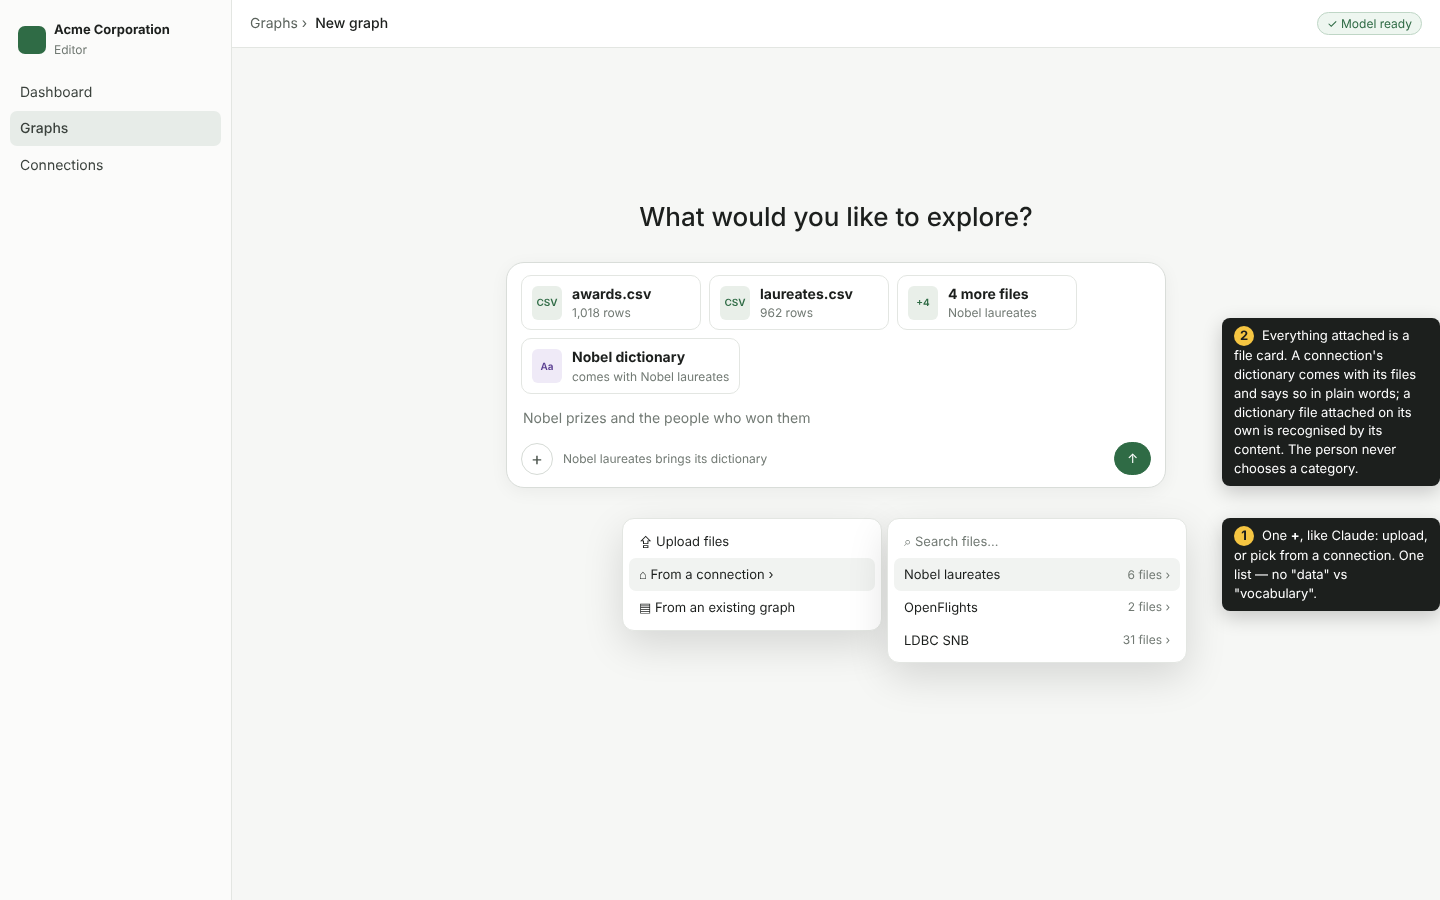
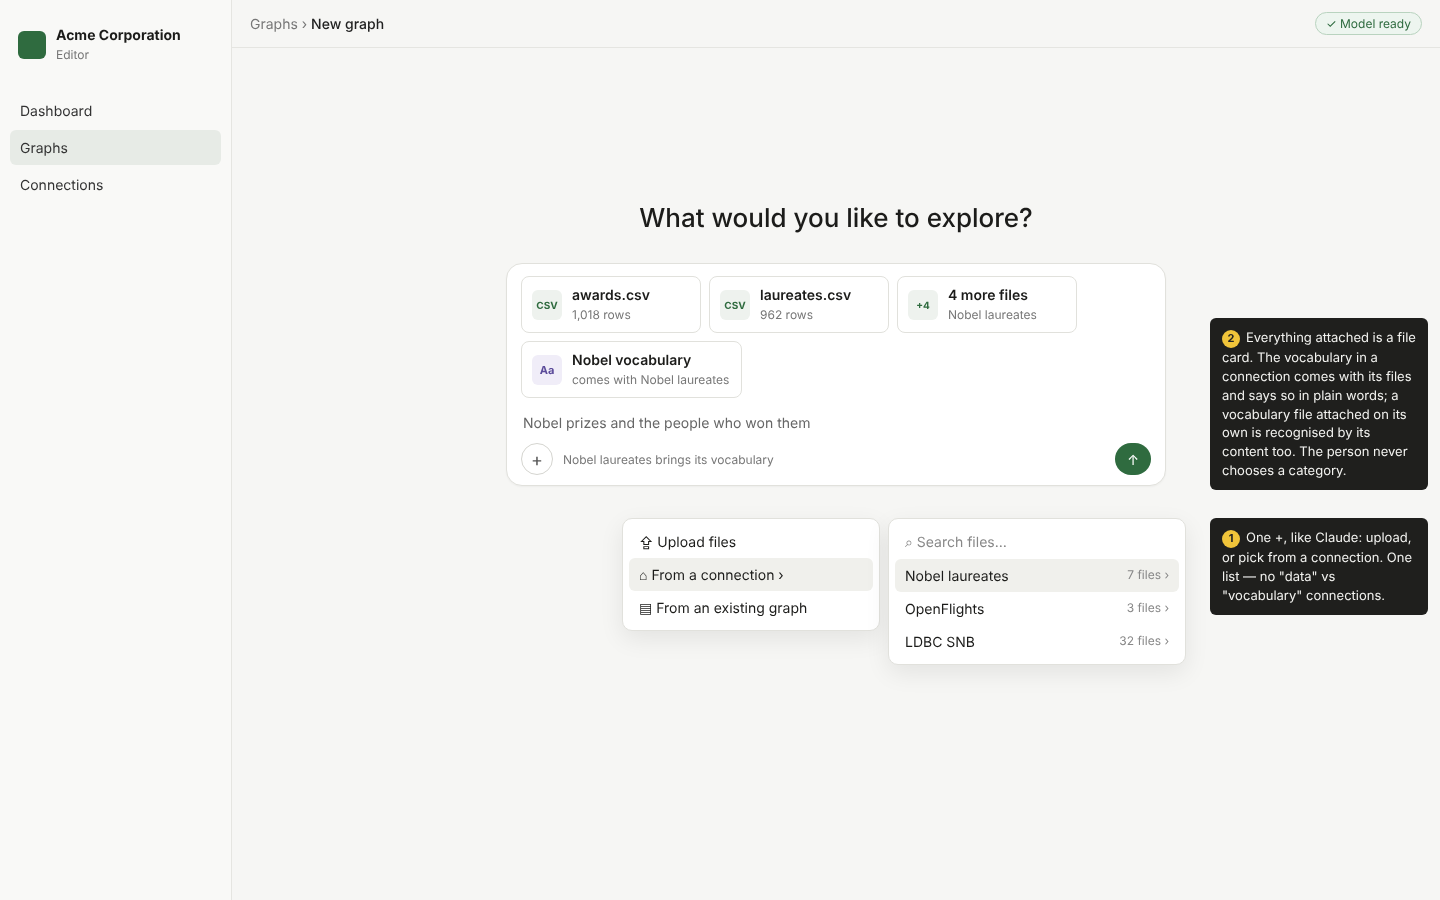
docs(design): the composer mockup says vocabulary, its source beside it
Claude-Session: https://claude.ai/code/session_01UehtreJY5kXUJpiKCCdSLU

diff --git a/docs/design/assistant/composer.html b/docs/design/assistant/composer.html
@@ -1,0 +1,45 @@
+<!doctype html><html><head><meta charset="utf-8"><style>
+*{box-sizing:border-box}body{margin:0;width:1440px;height:900px;font-family:Inter,"Helvetica Neue",Arial,sans-serif;background:#f6f6f4;color:#1c1c1a;display:flex}
+.side{width:232px;background:#f9f9f7;border-right:1px solid #e5e5e1;padding:18px 10px}
+.org{display:flex;gap:10px;align-items:center;padding:8px;margin-bottom:22px}.logo{width:28px;height:28px;border-radius:6px;background:#2f6b3f}
+.org b{font-size:14px;display:block}.org span{font-size:12px;color:#777}
+.nav{padding:9px 10px;border-radius:6px;font-size:14px;color:#333;margin-bottom:2px}.nav.on{background:#e7ebe6}
+.main{flex:1;display:flex;flex-direction:column}
+.top{height:48px;border-bottom:1px solid #e5e5e1;display:flex;align-items:center;justify-content:space-between;padding:0 18px;font-size:14px}
+.top .crumb{color:#777}.top .crumb b{color:#222;font-weight:500}
+.badge{font-size:12px;color:#2f6b3f;border:1px solid #b9d3bf;background:#edf5ef;border-radius:999px;padding:3px 10px}
+.body{flex:1;position:relative}
+h1{font-weight:500;font-size:26px;text-align:center;margin:154px 0 30px}
+.comp{width:660px;margin:0 auto;background:#fff;border:1px solid #e1e1dc;border-radius:16px;padding:12px 14px 10px;box-shadow:0 1px 2px rgba(0,0,0,.04)}
+.cards{display:flex;flex-wrap:wrap;gap:8px}
+.card{width:180px;border:1px solid #e1e1dc;border-radius:8px;padding:9px 10px;display:flex;gap:10px;align-items:center}
+.card.wide{width:auto;padding-right:12px}
+.ic{width:30px;height:30px;border-radius:6px;background:#eef2ee;color:#2f6b3f;font-size:10px;font-weight:700;display:flex;align-items:center;justify-content:center}
+.ic.v{background:#f0edf8;color:#5b4b9a;font-size:11px}
+.card b{font-size:14px;font-weight:600;display:block}.card span{font-size:12px;color:#777}
+.text{font-size:14px;color:#666;padding:16px 2px 12px}
+.bar{display:flex;align-items:center;gap:10px}.plus{width:32px;height:32px;border:1px solid #d5d5d0;border-radius:50%;display:flex;align-items:center;justify-content:center;color:#555;font-size:18px}
+.hint{font-size:12px;color:#777;flex:1}.send{width:36px;height:32px;border-radius:999px;background:#2f6b3f;color:#fff;display:flex;align-items:center;justify-content:center;font-size:14px}
+.menu{position:absolute;background:#fff;border:1px solid #e1e1dc;border-radius:10px;box-shadow:0 8px 24px rgba(0,0,0,.08);padding:6px;font-size:14px}
+.menu div{padding:8px 10px;border-radius:6px;display:flex;justify-content:space-between}.menu .on{background:#f0f0ec}.menu small{color:#888;font-size:12px}
+.note{position:absolute;right:12px;width:218px;background:#1f1f1d;color:#f3f3f0;font-size:13px;line-height:1.45;border-radius:6px;padding:10px 12px}
+.n{display:inline-flex;width:18px;height:18px;border-radius:50%;background:#f0c43a;color:#222;font-size:11px;font-weight:700;align-items:center;justify-content:center;margin-right:6px}
+</style></head><body>
+<div class="side"><div class="org"><div class="logo"></div><div><b>Acme Corporation</b><span>Editor</span></div></div>
+<div class="nav">Dashboard</div><div class="nav on">Graphs</div><div class="nav">Connections</div></div>
+<div class="main"><div class="top"><div class="crumb">Graphs › <b>New graph</b></div><div class="badge">✓ Model ready</div></div>
+<div class="body">
+<h1>What would you like to explore?</h1>
+<div class="comp"><div class="cards">
+<div class="card"><div class="ic">CSV</div><div><b>awards.csv</b><span>1,018 rows</span></div></div>
+<div class="card"><div class="ic">CSV</div><div><b>laureates.csv</b><span>962 rows</span></div></div>
+<div class="card"><div class="ic">+4</div><div><b>4 more files</b><span>Nobel laureates</span></div></div>
+<div class="card wide"><div class="ic v">Aa</div><div><b>Nobel vocabulary</b><span>comes with Nobel laureates</span></div></div>
+</div>
+<div class="text">Nobel prizes and the people who won them</div>
+<div class="bar"><div class="plus">+</div><div class="hint">Nobel laureates brings its vocabulary</div><div class="send">↑</div></div></div>
+<div class="menu" style="left:390px;top:470px;width:258px"><div>⇪ Upload files</div><div class="on">⌂ From a connection ›</div><div>▤ From an existing graph</div></div>
+<div class="menu" style="left:656px;top:470px;width:298px"><div style="color:#888">⌕ Search files…</div><div class="on">Nobel laureates <small>7 files ›</small></div><div>OpenFlights <small>3 files ›</small></div><div>LDBC SNB <small>32 files ›</small></div></div>
+<div class="note" style="top:270px"><span class="n">2</span>Everything attached is a file card. The vocabulary in a connection comes with its files and says so in plain words; a vocabulary file attached on its own is recognised by its content too. The person never chooses a category.</div>
+<div class="note" style="top:470px"><span class="n">1</span>One +, like Claude: upload, or pick from a connection. One list — no "data" vs "vocabulary" connections.</div>
+</div></div></body></html>
